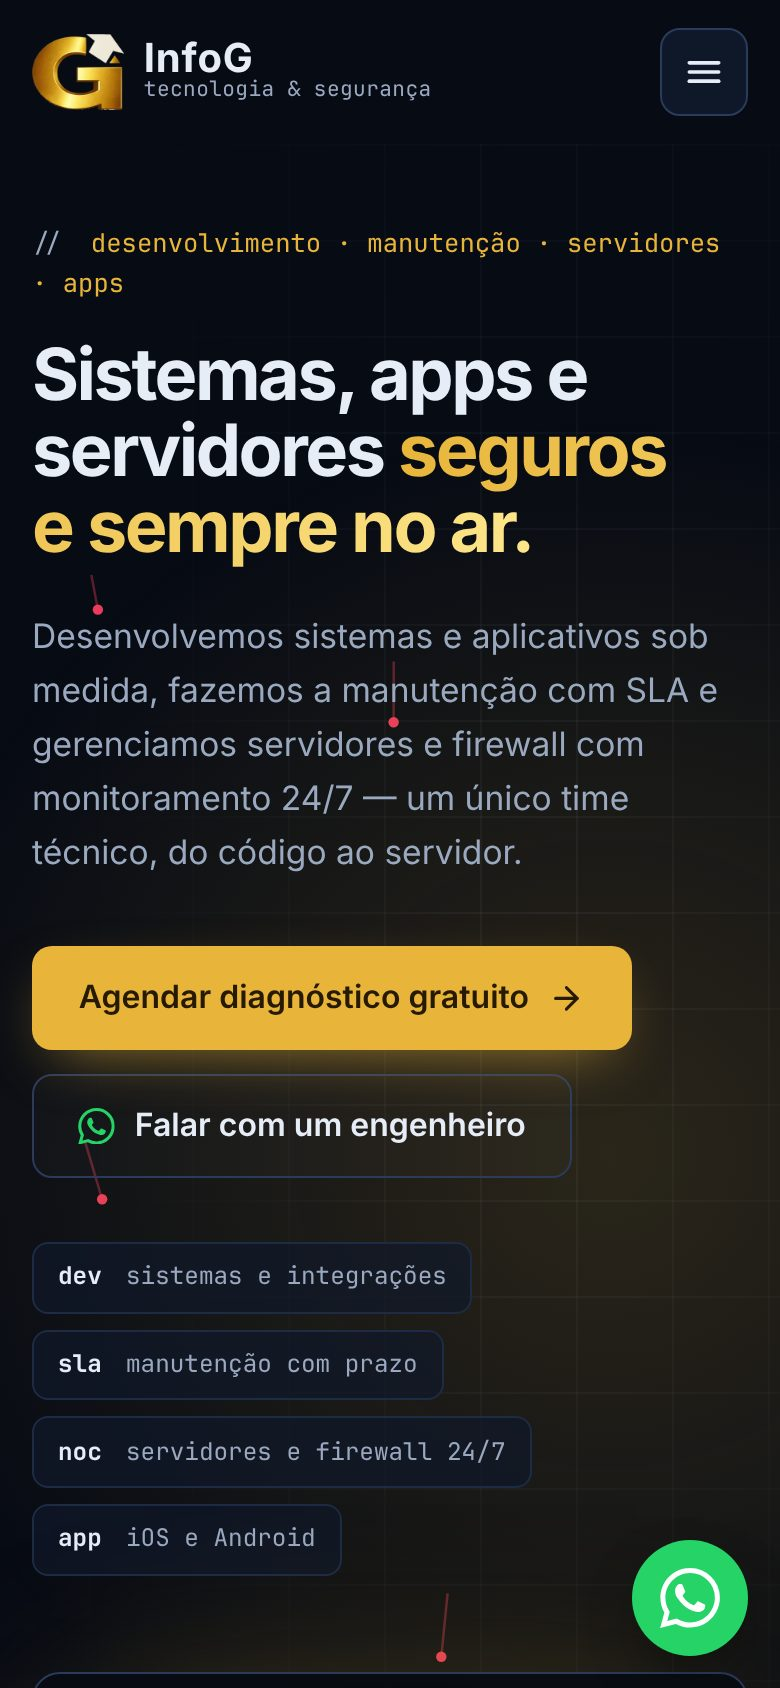
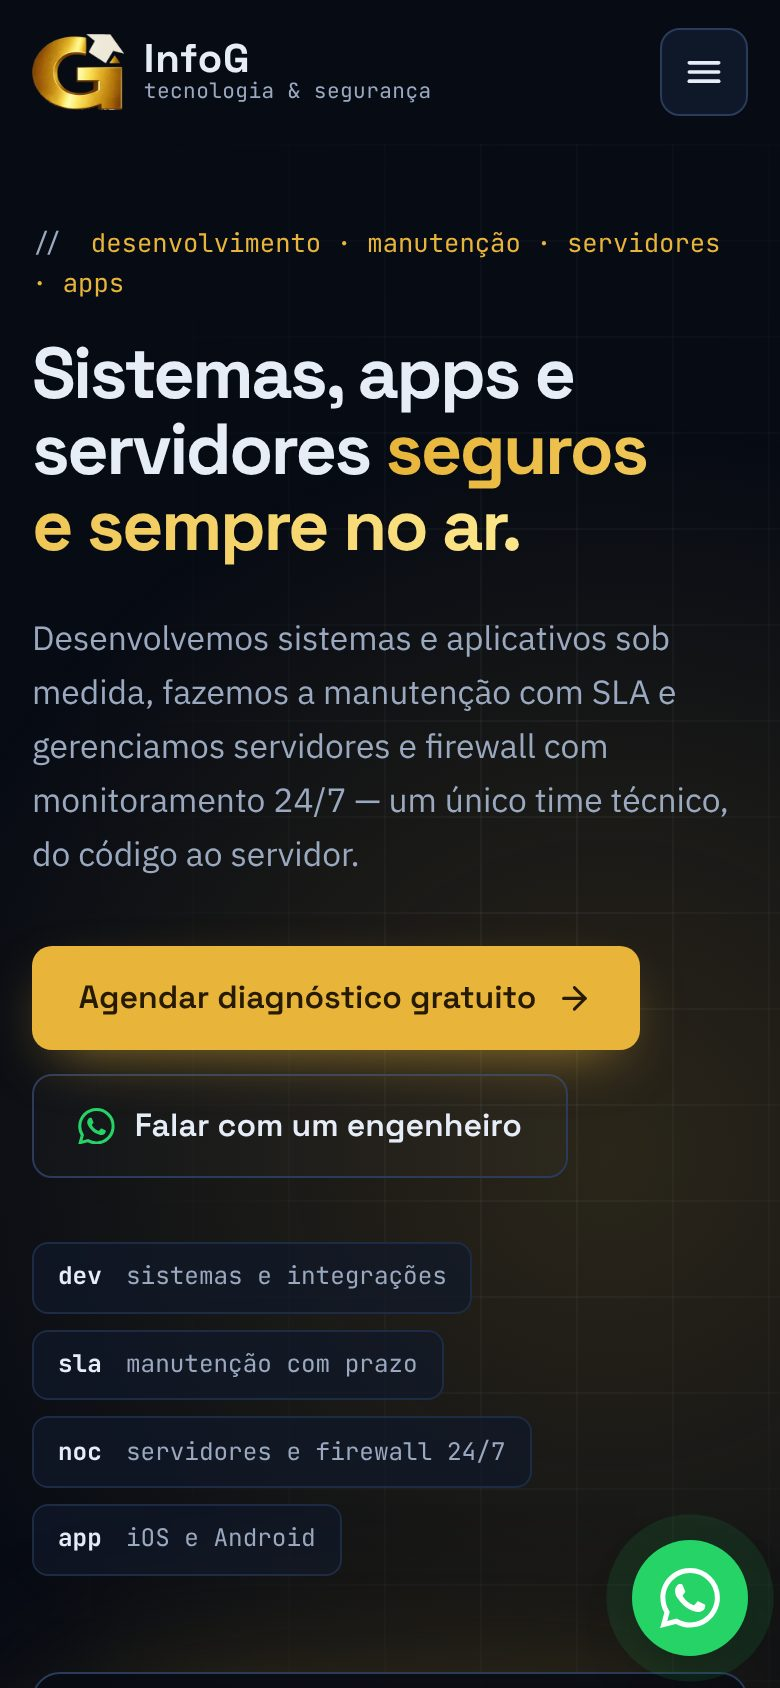
InfoG Bastião: camada de vidro, luz âmbar no cursor e marca no rodapé
Claude-Session: https://claude.ai/code/session_01QmiPwcu1vZC3FNQj5DnVy9

diff --git a/modelos/infog-bastiao/vidro.css b/modelos/infog-bastiao/vidro.css
@@ -1,0 +1,27 @@
+/* Camada de vidro: translucidez e luz âmbar sobre o layout original */
+.section, .metrics, .site-footer { position: relative; isolation: isolate; }
+.section::before, .site-footer::before {
+  content: ""; position: absolute; z-index: -1; inset: 0; pointer-events: none; overflow: hidden;
+  background:
+    radial-gradient(30% 40% at var(--lx, 20%) var(--ly, 30%), rgba(232, 181, 58, 0.12), transparent 70%),
+    radial-gradient(26% 36% at 88% 78%, rgba(90, 130, 220, 0.1), transparent 70%);
+  transition: background-position 0.3s;
+}
+.service, .quiz__result, .case, .form-shell, .faq details, .quiz__item {
+  background: rgba(15, 24, 41, 0.48);
+  -webkit-backdrop-filter: blur(18px) saturate(1.4);
+  backdrop-filter: blur(18px) saturate(1.4);
+  box-shadow: inset 0 0 0 1px rgba(255, 255, 255, 0.05), inset 0 1px 0 rgba(255, 255, 255, 0.08), 0 30px 60px -40px rgba(0, 0, 0, 0.9);
+}
+.service:hover { background: rgba(19, 31, 53, 0.62); }
+.terminal { background: rgba(4, 7, 13, 0.72); -webkit-backdrop-filter: blur(16px) saturate(1.3); backdrop-filter: blur(16px) saturate(1.3); }
+.metrics, .section--alt { background: rgba(10, 16, 29, 0.6); }
+.service, .quiz__result, .case, .form-shell { position: relative; }
+.vidro-brilho { position: absolute; inset: 0; border-radius: inherit; pointer-events: none; opacity: 0; transition: opacity 0.4s; background: radial-gradient(300px circle at var(--mx, 50%) var(--my, 0%), rgba(232, 181, 58, 0.14), transparent 65%); }
+:is(.service, .quiz__result, .case, .form-shell):hover > .vidro-brilho { opacity: 1; }
+.vidro-marca {
+  font-family: 'Space Grotesk', system-ui, sans-serif; font-weight: 700; font-size: clamp(80px, 22vw, 320px); line-height: 0.8;
+  letter-spacing: -0.06em; text-align: center; margin-top: 2rem; color: transparent; -webkit-text-stroke: 1px rgba(232, 181, 58, 0.25);
+  background: linear-gradient(90deg, #e8b53a, #fde68a, #e8b53a) no-repeat; background-size: var(--fill, 0%) 100%;
+  -webkit-background-clip: text; background-clip: text; user-select: none; white-space: nowrap;
+}

diff --git a/modelos/infog-bastiao/vidro.js b/modelos/infog-bastiao/vidro.js
@@ -1,0 +1,21 @@
+/* Camada de vidro: brilho no cursor, luz das seções escuras e assinatura do rodapé */
+(() => {
+  const fino = matchMedia("(hover: hover) and (pointer: fine)").matches;
+  const reduz = matchMedia("(prefers-reduced-motion: reduce)").matches;
+  const cards = document.querySelectorAll(".service, .quiz__result, .case, .form-shell");
+  cards.forEach((c) => {
+    const b = document.createElement("span"); b.className = "vidro-brilho"; b.setAttribute("aria-hidden", "true"); c.prepend(b);
+    if (fino) c.addEventListener("pointermove", (e) => { const r = c.getBoundingClientRect(); c.style.setProperty("--mx", e.clientX - r.left + "px"); c.style.setProperty("--my", e.clientY - r.top + "px"); });
+  });
+  const escuras = document.querySelectorAll(".section, .site-footer");
+  if (fino && !reduz) addEventListener("pointermove", (e) => {
+    escuras.forEach((s) => { const r = s.getBoundingClientRect(); if (r.bottom < 0 || r.top > innerHeight) return; s.style.setProperty("--lx", ((e.clientX - r.left) / r.width) * 60 + 20 + "%"); s.style.setProperty("--ly", ((e.clientY - r.top) / r.height) * 60 + 20 + "%"); });
+  }, { passive: true });
+  const marca = document.querySelector(".vidro-marca");
+  if (!marca) return;
+  const enche = () => {
+    const r = marca.getBoundingClientRect(), y = scrollY;
+    if (r.top < innerHeight) { const ini = y + r.top - innerHeight, fim = document.documentElement.scrollHeight - innerHeight; marca.style.setProperty("--fill", Math.min(1, Math.max(0, (y - ini) / Math.max(1, fim - ini))) * 100 + "%"); }
+  };
+  addEventListener("scroll", enche, { passive: true }); enche();
+})();

diff --git a/modelos/infog-bastiao/index.html b/modelos/infog-bastiao/index.html
@@ -18,6 +18,7 @@
   <link rel="stylesheet" href="https://fonts.googleapis.com/css2?family=IBM+Plex+Sans:wght@400;500;600&family=JetBrains+Mono:wght@400;500;700&family=Space+Grotesk:wght@500;600;700&display=swap">
   <link rel="stylesheet" href="shared/base.css">
   <link rel="stylesheet" href="style.css">
+  <link rel="stylesheet" href="vidro.css">
   <script>
     // Ativa o modo com JS antes da primeira pintura; se lp.js não carregar, volta ao modo sem JS.
     document.documentElement.classList.add('js');
@@ -25,6 +26,7 @@
   </script>
   <script src="shared/lp.js" defer></script>
   <script src="fx.js" defer></script>
+  <script src="vidro.js" defer></script>
 </head>
 <body data-whatsapp="5511970803077">
   <a class="skip-link" href="#conteudo">Pular para o conteúdo</a>
@@ -532,6 +534,7 @@
       <p>© <span data-year>2026</span> InfoG</p>
       <p>Página de demonstração: números, cases e depoimentos são ilustrativos. <a href="../../catalogo.html">Voltar ao catálogo</a></p>
     </div>
+    <div class="container"><p class="vidro-marca" aria-hidden="true">InfoG</p></div>
   </footer>
 </body>
 </html>
